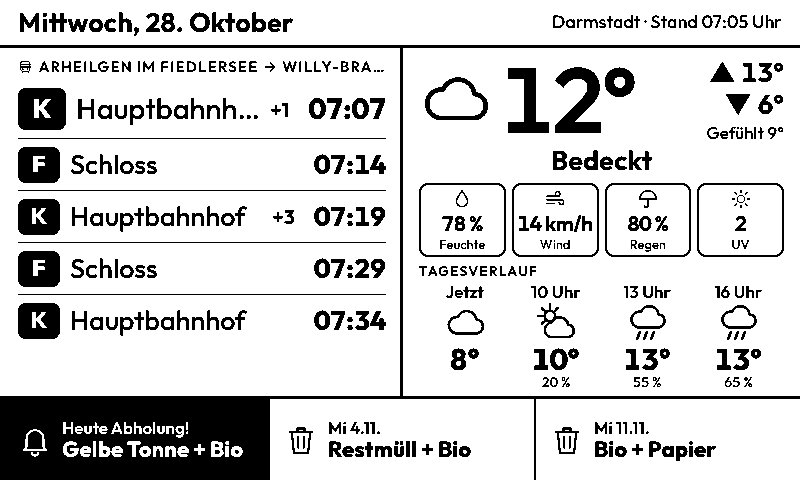
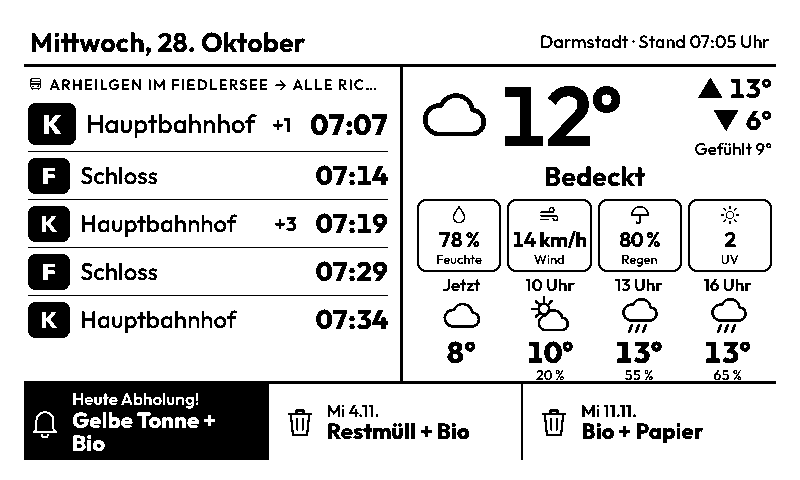
TRMNL: Rand für Bilderrahmen, Wetterseite mit großer Schrift, Müll ohne Doppelungen
- Neue Einstellung Rand (ohne/schmal/mittel/breit, Standard mittel) auf
  beiden Seiten, in Mashups halber Rand.
- Seite 2 neu gesetzt: große Temperatur, große Zahlen in Kurve, 5 Tagen,
  Luftqualität und Sonne/Wind; weniger Kleinkram.
- Mülltermine: mehrere Restmüll-Kürzel am selben Tag (z. B. RM1+RM2)
  erscheinen nur einmal.

Claude-Session: https://claude.ai/code/session_01PVUntCU1XoYrdwzgp5Vrbk

Changed region(s): [[0.0, 0.0312, 1.0, 1.0]]

diff --git a/trmnl/vorschau/sample.py b/trmnl/vorschau/sample.py
@@ -61,10 +61,10 @@ if szen == "rmv":
     for i, (d, line, dest, delay) in enumerate(plan):
         sched = (base + d - delay) % 1440; rt = (base + d) % 1440
         f = lambda m: f"{m // 60:02d}:{m % 60:02d}:00"
-        stops = [{"name": "Darmstadt Im Fiedlersee", "extId": "3004999", "routeIdx": 3},
-                 {"name": "Darmstadt Willy-Brandt-Platz" if line == "K" or i % 3 else "Darmstadt Ostbahnhof", "extId": "3004111", "routeIdx": 4},
+        stops = [{"name": "Darmstadt Im Fiedlersee", "extId": "3024329", "routeIdx": 3},
+                 {"name": "Darmstadt Willy-Brandt-Platz" if line == "K" or i % 3 else "Darmstadt Ostbahnhof", "extId": "3024747", "routeIdx": 4},
                  {"name": dest, "extId": "3004222", "routeIdx": 9}]
-        x = {"name": f"Bus {line}", "type": "ST", "stop": "Darmstadt Im Fiedlersee", "stopExtId": "3004999",
+        x = {"name": f"Bus {line}", "type": "ST", "stop": "Darmstadt Im Fiedlersee", "stopExtId": "3024329",
              "time": f(sched), "date": str(day0), "direction": dest, "Stops": {"Stop": stops},
              "ProductAtStop": {"name": f"Bus {line}", "line": line, "displayNumber": line, "catOutL": "Bus"}}
         if delay or i % 2: x["rtTime"] = f(rt); x["rtDate"] = str(day0)
@@ -77,7 +77,7 @@ if szen == "fehler":
 # ---------------- EAD Darmstadt ----------------
 def k(n):
     return (day0 + dt.timedelta(days=n)).strftime("%d.%m.%Y")
-muell = {k(-6): ["RM2"], k(1): ["WET", "BIO"], k(8): ["RM2", "BIO"], k(15): ["BIO", "PPK"], k(22): ["RM2", "WET"]}
+muell = {k(-6): ["RM2"], k(1): ["WET", "BIO"], k(8): ["RM1", "RM2", "BIO"], k(15): ["BIO", "PPK"], k(22): ["RM2", "WET"]}
 if szen == "heute":
     muell = {k(0): ["WET", "BIO"], k(7): ["RM2", "BIO"], k(14): ["BIO", "PPK"]}
 

diff --git a/trmnl/README.md b/trmnl/README.md
@@ -42,6 +42,7 @@ Beide Seiten gibt es auch in den kleineren Größen für Mashups (halb waagrecht
 | Ortsname, Breiten- und Längengrad | Für das Wetter. Nachschlagen auf [open-meteo.com](https://open-meteo.com/en/docs) (oben Ort suchen) oder [latlong.net](https://www.latlong.net/) (auf die Karte klicken). Dezimalgrad mit Punkt, z. B. `49.87`. |
 | Straße für den Müllkalender | Straßenname wie im [EAD-Abfallkalender](https://www.ead.darmstadt.de/unser-angebot/privathaushalte/abfallkalender), **ohne Hausnummer**. Bei Straßen, die der EAD aufteilt, den Abschnitt mitschreiben, z. B. `Heinheimer Straße 1-15, 2-16`. Leer = keine Müll-Leiste. |
 | Schriftgröße | **Groß** (Standard): 5 Abfahrten, große Temperaturen und Schrift, aus der Ferne lesbar. **Normal**: bis zu 9 Abfahrten, 6 Zeitpunkte im Tagesverlauf und Wetterspruch, die frühere Ansicht ([Bild](docs/seite1-normal.png)). |
+| Rand (für Bilderrahmen) | Abstand des Inhalts zum Displayrand: ohne, schmal, mittel (Standard), breit. In Mashups halber Rand. Gibt es auf beiden Seiten. |
 | Müll-Erinnerung ab | Uhrzeit am Vorabend, ab der der Termin hervorgehoben wird (15–20 Uhr). |
 | Wetterspruch | Ein Spruch pro Tag wie auf der CYD. Auf Seite 1 und 2 abschaltbar. |
 
